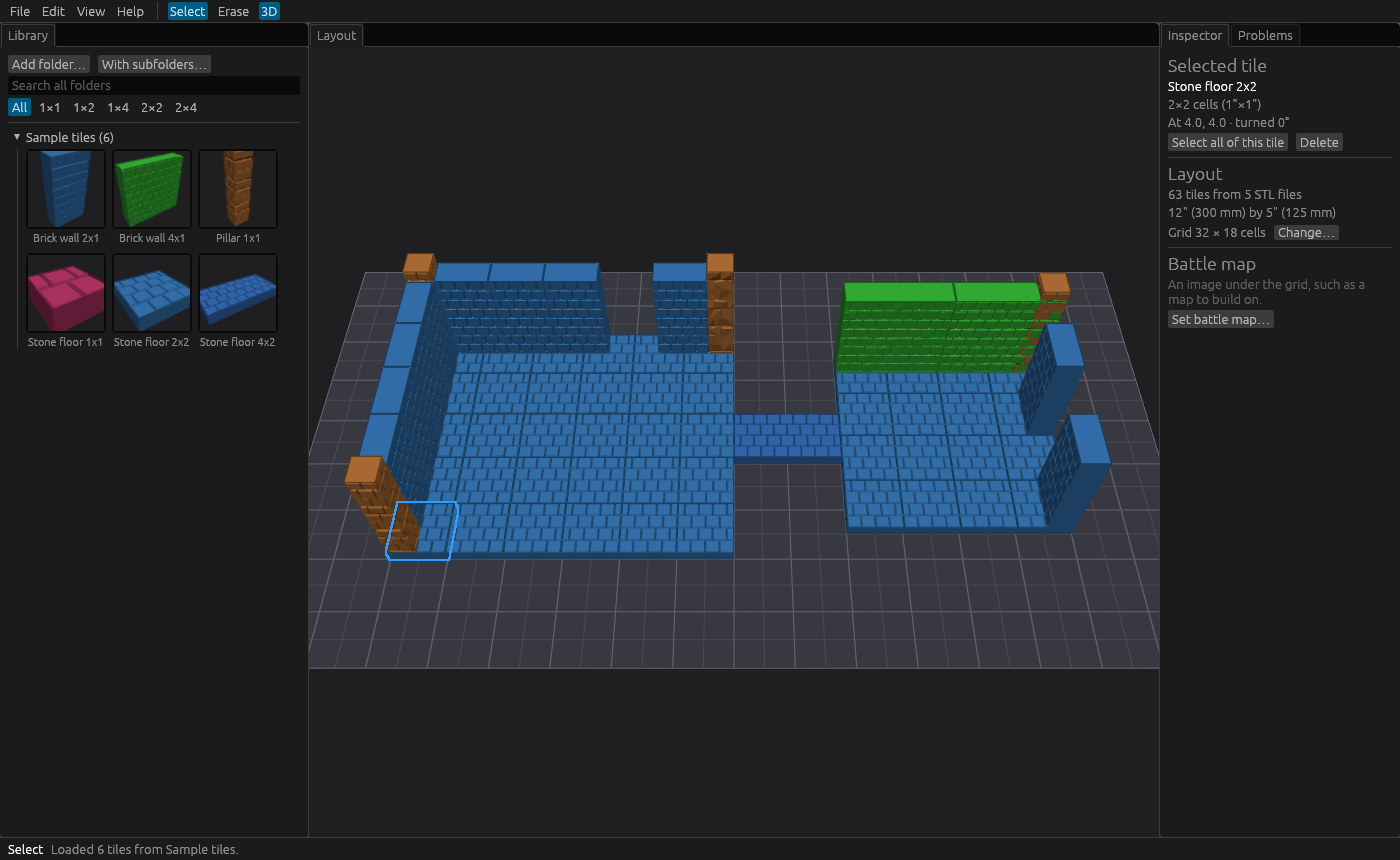
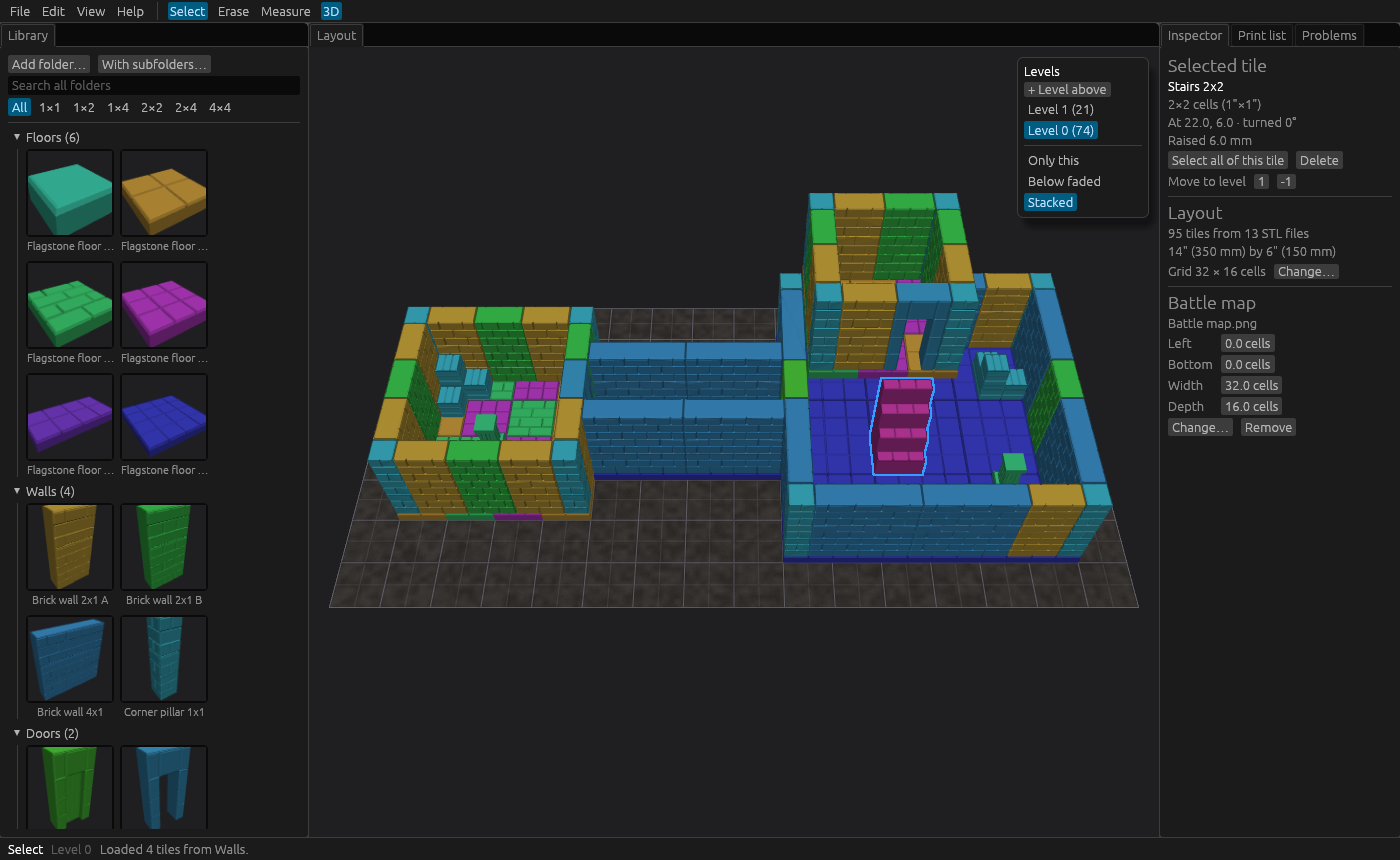
docs: redesign the README around the current window
The README said too much: long feature and shortcut tables and
paragraphs of install notes. It now leads with the banner and a
screenshot and keeps each section to what a first visit needs: a short
features table, a download per platform, three steps to a build plan,
and the common shortcuts folded away.

The screenshots predated the Measure tool, the Levels box and the Print
List panel, and their dungeon was a few plain sample boxes with walls
missing. Both themes are captured again with --screenshot from a demo
dungeon on two levels: flagstone floors in three patterns, brick walls,
doors, stairs up to a second room, crates and a battle map.

diff --git a/README.md b/README.md
@@ -4,110 +4,97 @@
 </p>
 
 <p align="center">
-  Lay out a dungeon from your modular terrain STL files,<br>
-  then print exactly the tiles it needs and build it from the plan.
+  A desktop app for laying out dungeons from modular terrain STL files,<br>
+  then printing exactly the tiles the layout needs.
 </p>
 
 <p align="center">
-  <a href="https://github.com/HaXrDEV/modular-terrain-planner/releases/latest"><img src="https://img.shields.io/github/v/release/HaXrDEV/modular-terrain-planner?include_prereleases&style=flat-square&label=version&color=c87020" alt="Version"></a>
+  <a href="https://github.com/HaXrDEV/modular-terrain-planner/releases/latest"><img src="https://img.shields.io/github/v/release/HaXrDEV/modular-terrain-planner?include_prereleases&style=flat-square&label=version&color=c97d1f" alt="Version"></a>
   <a href="https://github.com/HaXrDEV/modular-terrain-planner/actions/workflows/checks.yml"><img src="https://img.shields.io/github/actions/workflow/status/HaXrDEV/modular-terrain-planner/checks.yml?branch=main&style=flat-square&label=checks" alt="Checks"></a>
-  <img src="https://img.shields.io/badge/Windows%20%C2%B7%20macOS%20%C2%B7%20Linux-555?style=flat-square" alt="Windows, macOS and Linux">
-  <a href="https://www.rust-lang.org"><img src="https://img.shields.io/badge/Rust-1.95%2B-dea584?style=flat-square&logo=rust&logoColor=white" alt="Rust 1.95 or newer"></a>
+  <img src="https://img.shields.io/badge/platform-Windows%20%C2%B7%20macOS%20%C2%B7%20Linux-555?style=flat-square" alt="Windows, macOS and Linux">
   <a href="LICENSE"><img src="https://img.shields.io/badge/license-MIT-lightgrey?style=flat-square" alt="MIT license"></a>
 </p>
 
 <p align="center">
   <a href="#features">Features</a> ·
   <a href="#install">Install</a> ·
-  <a href="#using-it">Using it</a> ·
-  <a href="#files-and-privacy">Files and privacy</a> ·
+  <a href="#usage">Usage</a> ·
   <a href="#development">Development</a>
 </p>
 
 <p align="center">
-  <img src="docs/screenshot-light.png#gh-light-mode-only" alt="A dungeon of stone floors and brick walls in Modular Terrain Planner" width="900">
-  <img src="docs/screenshot-dark.png#gh-dark-mode-only" alt="A dungeon of stone floors and brick walls in Modular Terrain Planner" width="900">
+  <img src="docs/screenshot-light.png#gh-light-mode-only" alt="A two-level dungeon of flagstone floors, brick walls, doors and stairs in Modular Terrain Planner" width="900">
+  <img src="docs/screenshot-dark.png#gh-dark-mode-only" alt="A two-level dungeon of flagstone floors, brick walls, doors and stairs in Modular Terrain Planner" width="900">
 </p>
 
 ## Features
 
-| Part | What it does |
+| Feature | What it does |
 | :--- | :--- |
-| **Library** | Opens folders of STL files (OpenForge, Dragonlock and the like), with pictures, search and footprint filters. Each tile's size in grid cells comes from the file, inches included. |
-| **Layout** | Place, paint, fill, move, turn, copy and stack tiles on a grid in 2D or 3D, on as many levels as the dungeon has floors. Tiles stack only on a level surface, and a red ghost says why a spot won't work. |
-| **Battle map** | Lays an image under the grid to build on. |
-| **Print list** | Shows what to print for the layout after what you already own, with filament, cost and build plate estimates, and remembers your prints across projects. |
-| **Build plan** | A PDF with a numbered map that shows which way each tile faces, a print list per STL file and a table of every placement. Also a PNG map and a CSV print list. |
+| **Tile library** | Opens folders of STL tiles, such as OpenForge or Dragonlock, sized from each file |
+| **Layout** | Paint, fill, turn and stack tiles in 2D or 3D, across levels and over a battle map |
+| **Smart tools** | Stamps, tile variants, walls around a room and a measuring tool |
+| **Print list** | What to print after the tiles you own, with filament, cost and build plate estimates |
+| **Build plan** | A PDF with a numbered map and every placement, plus a PNG map and a CSV |
 
-- **Fast.** Thousands of tiles stay smooth, far-away tiles are drawn with less detail, and a library opens instantly the second time.
-- **Nothing is lost.** Tiles whose STL is missing are kept and saved as they are, saves never leave a half-written file, and unsaved work is recovered after a crash.
-- **Projects travel.** Paths are saved relative to the project, so a project and its tiles can move together, also between Windows, macOS and Linux.
+- **Fast.** Thousands of tiles stay smooth, and a library opens instantly the second time.
+- **Safe.** Saves are atomic, unsaved work survives a crash, and tiles with a missing STL are kept.
+- **Offline.** No account and no telemetry. Projects are plain JSON files with relative paths.
 
-1 grid cell is 12.5 mm, so a 1" battle-map square is 2 × 2 cells.
+The grid is 12.5 mm, so a 1" battle map square is 2 × 2 cells.
 
 ## Install
 
-Download the file for your system from the [latest release](https://github.com/HaXrDEV/modular-terrain-planner/releases/latest):
+Download the latest version from [Releases](https://github.com/HaXrDEV/modular-terrain-planner/releases/latest).
 
-| System | File |
+| Platform | Download |
 | :--- | :--- |
-| Windows 10 or 11 | `…-windows-x64-setup.exe` installs it for you (no administrator rights), or unzip `…-windows-x64.zip` anywhere |
-| macOS 11 or newer | Unzip `…-macos-universal.zip` and move the app to Applications |
-| Linux (glibc 2.35 or newer) | `chmod +x` the `…-linux-x86_64.AppImage` and run it, or unpack `…-linux-x64.tar.gz` and run `./install.sh` |
+| Windows 10 and 11 | Installer (`.exe`) or portable `.zip` |
+| macOS 11 and later | Universal app (`.zip`) |
+| Linux (glibc 2.35 and later) | `.AppImage` or `.tar.gz` |
 
-The downloads aren't code-signed, so the first start asks once:
+> [!NOTE]
+> The downloads aren't code-signed. On first launch, choose **More info › Run anyway** in Windows SmartScreen, or **Open Anyway** under **System Settings › Privacy & Security** on macOS.
 
-- **Windows:** SmartScreen protected your PC. Choose *More info*, then *Run anyway*.
-- **macOS:** Apple can't check the app. Open *System Settings > Privacy & Security* and choose *Open Anyway*.
+Needs a graphics card with Vulkan, DirectX 12, Metal or OpenGL 3.3. If the view stays blank, choose OpenGL in **View › Settings**. Projects from version 0.4 and earlier open unchanged.
 
-The app draws with Vulkan, DirectX 12, Metal or OpenGL 3.3, so most graphics cards from the last ten years work. If the view stays blank, update the graphics driver, or pick *OpenGL* under *View > Settings > Graphics*.
+## Usage
 
-Projects from the Python version (0.4 and earlier) open as they are. That version is tagged [`python-final`](https://github.com/HaXrDEV/modular-terrain-planner/tree/python-final).
+1. Add a folder of STL tiles with **File › Add tile folder**, or try the sample tiles.
+2. Pick a tile in the library, then click or drag on the grid to place it.
+3. Export the build plan with <kbd>Ctrl</kbd>+<kbd>E</kbd>.
 
-## Using it
+<kbd>Ctrl</kbd>+<kbd>K</kbd> finds any command or tile, and <kbd>F1</kbd> lists every shortcut. On macOS, use <kbd>Cmd</kbd> for <kbd>Ctrl</kbd>.
 
-Add a folder of STL files with **File > Add tile folder** (or drop it onto the window), or try the sample tiles. Click a tile in the library, then click or drag on the grid to place it.
+<details>
+<summary><b>Common shortcuts</b></summary>
+<br>
 
-| To | Do this |
+| Action | Shortcut |
 | :--- | :--- |
-| Place, select, erase | Click a tile in the library, press **V** for Select, **X** for Erase |
-| Fill a room, draw a wall | **Shift**+drag fills a rectangle, **Shift**+click draws a line from the last tile |
-| Switch tiles quickly | **1** to **9** pick a recently placed tile |
-| Turn | **Q** and **E** |
-| Mix in variants | **C** and **Shift+C** cycle through tiles of the same size; *Edit > Randomise variants* mixes them into a selection |
-| Wall in a room | Select its floor, then *Edit > Add walls around selection* |
-| Reuse a room or corridor | *Edit > Save selection as stamp*, then click it under Stamps in the library |
-| Move the selection | Drag it, or use the arrow keys |
-| Place freely, off the grid | Hold **Ctrl** |
-| Pick up a placed tile | **Alt**+click it |
-| Build another floor | **Page Up** and **Page Down**, or the Levels box in the view |
-| Measure | **M**, then drag: the length in cells, inches and millimetres |
-| Look around | Right drag to orbit, middle drag to pan, wheel to zoom, **T** for 2D or 3D |
-| Export the build plan | **Ctrl+E** |
+| Select, erase, measure | <kbd>V</kbd> <kbd>X</kbd> <kbd>M</kbd> |
+| Turn | <kbd>Q</kbd> <kbd>E</kbd> |
+| Fill a rectangle, draw a line | <kbd>Shift</kbd>+drag, <kbd>Shift</kbd>+click |
+| Recent tiles | <kbd>1</kbd> to <kbd>9</kbd> |
+| Next variant of a tile | <kbd>C</kbd> |
+| Place off the grid | Hold <kbd>Ctrl</kbd> |
+| Pick up a placed tile | <kbd>Alt</kbd>+click |
+| Level up or down | <kbd>Page Up</kbd> <kbd>Page Down</kbd> |
+| Switch 2D and 3D | <kbd>T</kbd> |
+| Orbit, pan, zoom | Right drag, middle drag, wheel |
 
-**Ctrl+K** finds any command or tile by name, and **Help > Keyboard and mouse** lists everything else.
-
-## Files and privacy
-
-The app never uses the network. Projects are `.mtp` files (JSON) wherever you save them. Settings, logs, autosaves and the mesh cache stay in the app's own folders, which *Help > About* shows:
-
-- Windows: `%APPDATA%` and `%LOCALAPPDATA%\Modular Terrain Planner`
-- macOS: `~/Library/Application Support` and `~/Library/Caches`
-- Linux: `~/.config`, `~/.local/share` and `~/.cache`
+</details>
 
 ## Development
 
 Install [Rust](https://rustup.rs), then:
 
 ```bash
-cargo run
-```
-
-```bash
+cargo run --release
 cargo test --workspace
 ```
 
-[How it works](docs/how-it-works.md) explains loading, the placement rules and drawing. [The project format](docs/project-format.md) describes `.mtp` files, and [Contributing](CONTRIBUTING.md) the branch and pull request routine.
+[How it works](docs/how-it-works.md) covers loading, the placement rules and drawing. [The project format](docs/project-format.md) describes `.mtp` files, and [Contributing](CONTRIBUTING.md) the branch and pull request routine.
 
 ## License
 
